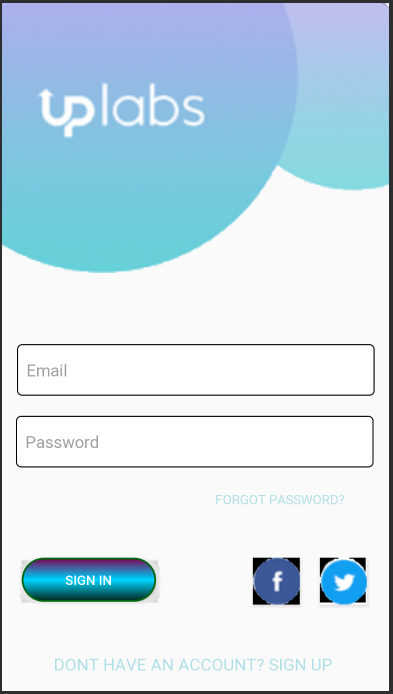
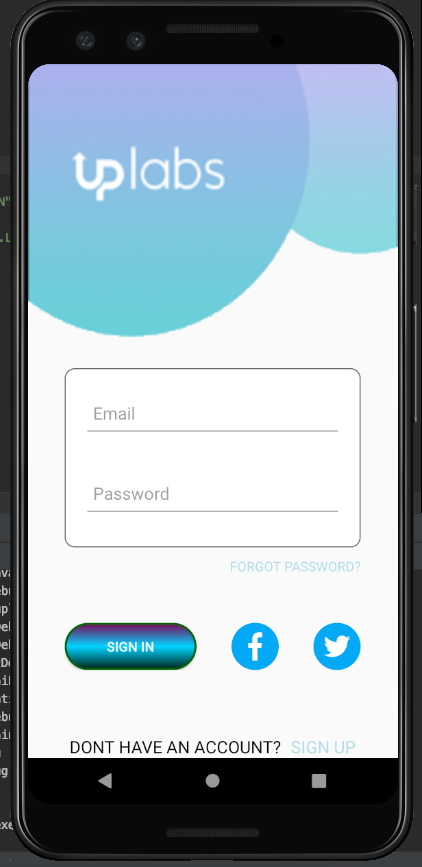
Style Login buttons

diff --git a/readme.md b/readme.md
@@ -1,0 +1,3 @@
+# LEARNING ANDROID 2020
+
+![Result](result.png)
